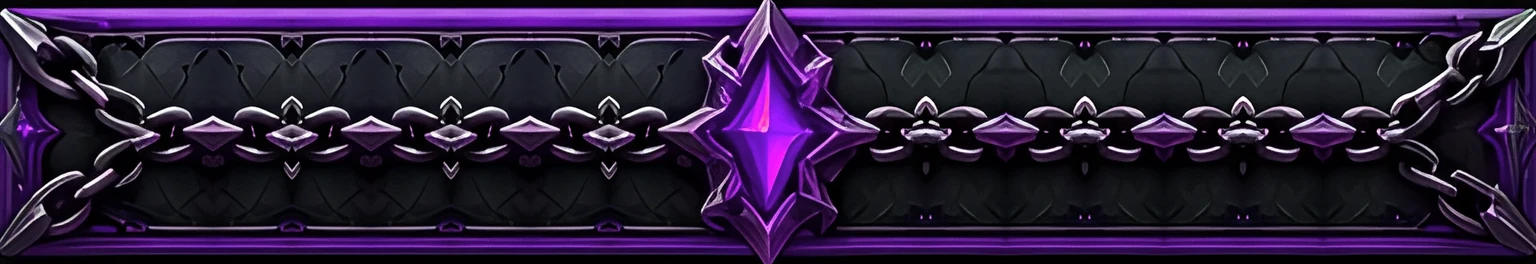
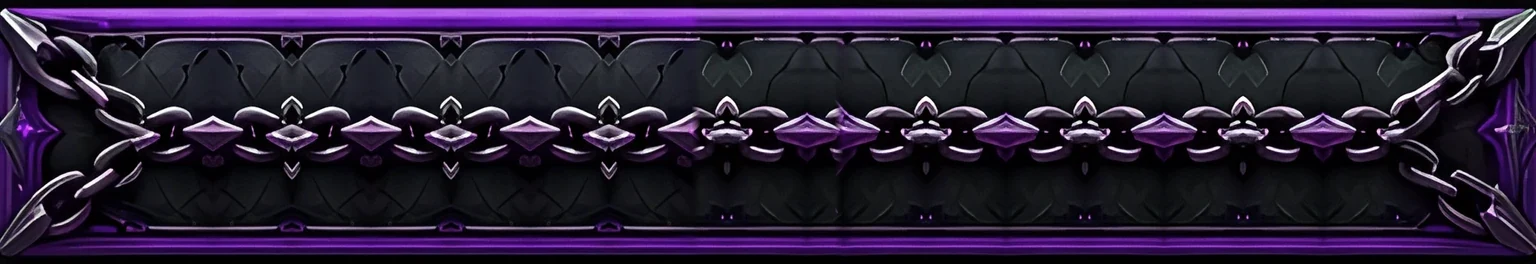
보석 트레이 7종 장식 줄이기: 테마는 그대로, 문장 · 보석 · 울퉁불퉁한 윤곽을 뺌
- 바닥: 가운데 문장(나침반 · 왕관 · 삼지창 · 초승달 · 꽃 · 룬)과 모서리 장식을 바탕색으로 덮고 윤곽만 옅게 (새긴 무늬처럼). 바탕 질감(대리석 · 벨벳 · 물빛 · 돌 · 용암 · 별빛)은 그대로, 마왕성 룬 고리 · 벚꽃 모서리 꽃은 남김
- 발광 지도에서도 지운 장식 자리를 끔, 상자 바닥 가운데 보석 · 문양도 옆 무늬로 덮음, 꾸미기 썸네일도 새 바닥으로
- 난간: 무늬 그림은 그대로, 윗면 · 윤곽은 곧게, 보석 없이, 모서리 기둥은 난간 높이로 (예전 모양은 rails.fancy)
- ART_VER a2 (skins.js · sw.js)

Claude-Session: https://claude.ai/code/session_014gChBYzVF9cfUwsBghVSK5

Changed region(s): [[0.4375, 0.0, 0.5625, 1.0]]

diff --git a/dice-heroes/dice3d.js b/dice-heroes/dice3d.js
@@ -445,8 +445,8 @@ export class DiceTray {
   }
 
   // 그림 난간 (assets/trays/<스킨>/rail_top · rail_side · corner_side · corner_top · rail_glow).
-  // 윗면을 스킨 모양대로 출렁이게(물결 · 톱니 · 바위) 하고, 네 모서리 기둥과 난간 가운데에 그 스킨의 보석을 얹는다.
-  // 물리 벽은 따로 있어서(평면) 겉모양만 바뀐다
+  // 테마 무늬 그림은 그대로 입히되 장식은 줄인다 (트레이가 너무 화려하다는 의견): 윗면 · 윤곽은 곧게, 보석은 없이, 모서리 기둥은 난간 높이로.
+  // 예전처럼 출렁이는 윤곽 · 보석을 쓰려면 스킨 rails 에 fancy: true. 물리 벽은 따로 있어서(평면) 겉모양만 바뀐다
   buildFancyFrame(id, st) {
     const S = st.rails, T = RAIL_T, H = 0.7;
     const grp = new THREE.Group();
@@ -466,6 +466,7 @@ export class DiceTray {
     // 윗면 높이 모양: x(난간 방향 거리)에 따라
     const seed = id.length * 7.3;
     const bump = x => {
+      if (!S.fancy) return 0;
       const a = S.amp, f = S.freq;
       if (S.shape === 'scallop') return a * Math.abs(Math.sin(x * f));
       if (S.shape === 'jag') { const q = (x * f / Math.PI) % 1; return a * (q < 0.5 ? q * 2 : (1 - q) * 2) + a * 0.3 * Math.sin(x * 7.1 + seed); }
@@ -493,22 +494,26 @@ export class DiceTray {
       if (rot) m.position.x = off; else m.position.z = off;
       m.castShadow = m.receiveShadow = true;
       grp.add(m);
-      // 난간 가운데 보석 (조금 떠서 솟은 모양)
-      const gem = this.frameGem(S, 0.17);
-      gem.position.set(rot ? off : 0, H + bump(off * 3.1) + 0.16, rot ? 0 : off);
-      grp.add(gem);
+      // 난간 가운데 보석 (조금 떠서 솟은 모양) — fancy 일 때만
+      if (S.fancy) {
+        const gem = this.frameGem(S, 0.17);
+        gem.position.set(rot ? off : 0, H + bump(off * 3.1) + 0.16, rot ? 0 : off);
+        grp.add(gem);
+      }
     }
     // 네 모서리 기둥 + 꼭대기 보석
-    const PW = 0.72, PH = H + 0.32;
+    const PW = S.fancy ? 0.72 : T, PH = S.fancy ? H + 0.32 : H + 0.02;
     const sideM = mat('corner_side', 1, false), topM = mat('corner_top', 1, false);
     for (const sx of [-1, 1]) for (const sz of [-1, 1]) {
       const post = new THREE.Mesh(new THREE.BoxGeometry(PW, PH, PW), [sideM, sideM, topM, topM, sideM, sideM]);
       post.position.set(sx * (TRAY_W / 2 + T / 2), PH / 2, sz * (TRAY_D / 2 + T / 2));
       post.castShadow = post.receiveShadow = true;
       grp.add(post);
-      const gem = this.frameGem(S, 0.24);
-      gem.position.set(post.position.x, PH + 0.24, post.position.z);
-      grp.add(gem);
+      if (S.fancy) {
+        const gem = this.frameGem(S, 0.24);
+        gem.position.set(post.position.x, PH + 0.24, post.position.z);
+        grp.add(gem);
+      }
     }
     // 주사위 함 벽도 같은 그림 난간으로
     for (const [w, d, x, z] of [[TRAY_W + 2 * T + 2 * BOX_T, BOX_T, 0, BOX_Z + BOX_D / 2 + BOX_T / 2], [BOX_T, BOX_D, -(TRAY_W / 2 + T + BOX_T / 2), BOX_Z], [BOX_T, BOX_D, TRAY_W / 2 + T + BOX_T / 2, BOX_Z]]) {

diff --git a/dice-heroes/sw.js b/dice-heroes/sw.js
@@ -5,7 +5,7 @@
 // 그래서 새 버전을 배포하면 다음 실행에 바로 반영되고, 신호가 약해도 멈춰 있지 않는다.
 // 이름을 바꾸면 예전 캐시를 통째로 지운다 (v0.30.7: 버전이 안 붙은 예전 주사위·트레이 그림이 남아 있어서)
 const BGM_VER = 'b2';   // audio.js 의 BGM_VER 와 같아야 한다 (곡을 바꾸면 둘 다 올린다)
-const ART_VER = 'a1';  // skins.js 의 ART_VER 와 같아야 한다 (주사위 · 트레이 그림을 바꾸면 둘 다 올린다)
+const ART_VER = 'a2';  // skins.js 의 ART_VER 와 같아야 한다 (주사위 · 트레이 그림을 바꾸면 둘 다 올린다)
 const CACHE = 'dh-cache-3';   // v0.37.5: 버전이 안 붙은 예전 보스 곡(도입부 없는 루프)을 지운다
 const FILES = [
   './', 'index.html', 'style.css', 'app.js', 'engine.js', 'config.js', 'audio.js', 'dice3d.js', 'pixel.js',

diff --git a/dice-heroes/skins.js b/dice-heroes/skins.js
@@ -66,7 +66,7 @@ export const dieGlows = id => !!DIE_MAT[id]?.glow;
 // 그림 주소 끝에 그림 버전(ART_VER)을 붙인다. 게임 버전을 붙이면 업데이트마다 주사위 · 트레이 그림을 전부 다시 받아서
 // 첫 판에 트레이가 늦게 뜨곤 했다. 주사위 · 트레이 그림 파일을 바꾸거나 더하면 sw.js 의 ART_VER 와 함께 올린다
 // (안 올려도 sw.js 가 뒤에서 새 그림을 받아 두어 다음 실행부터는 새 그림 — 올리면 바로)
-export const ART_VER = 'a1';
+export const ART_VER = 'a2';
 const AV = `?v=${ART_VER}`;
 export const dieImage = (id, v) => (DIE_MAT[id]?.image ? `assets/dice/${id}/${v}.webp${AV}` : null);
 

diff --git a/dice-heroes/config.js b/dice-heroes/config.js
@@ -3,6 +3,6 @@ export const GAME = {
   name: '요트 히어로즈',
   en: 'YACHT HEROES',
   studio: 'HAHAHOHO COMPANY',
-  version: '0.38.98',
+  version: '0.38.99',
   year: 2026,
 };
